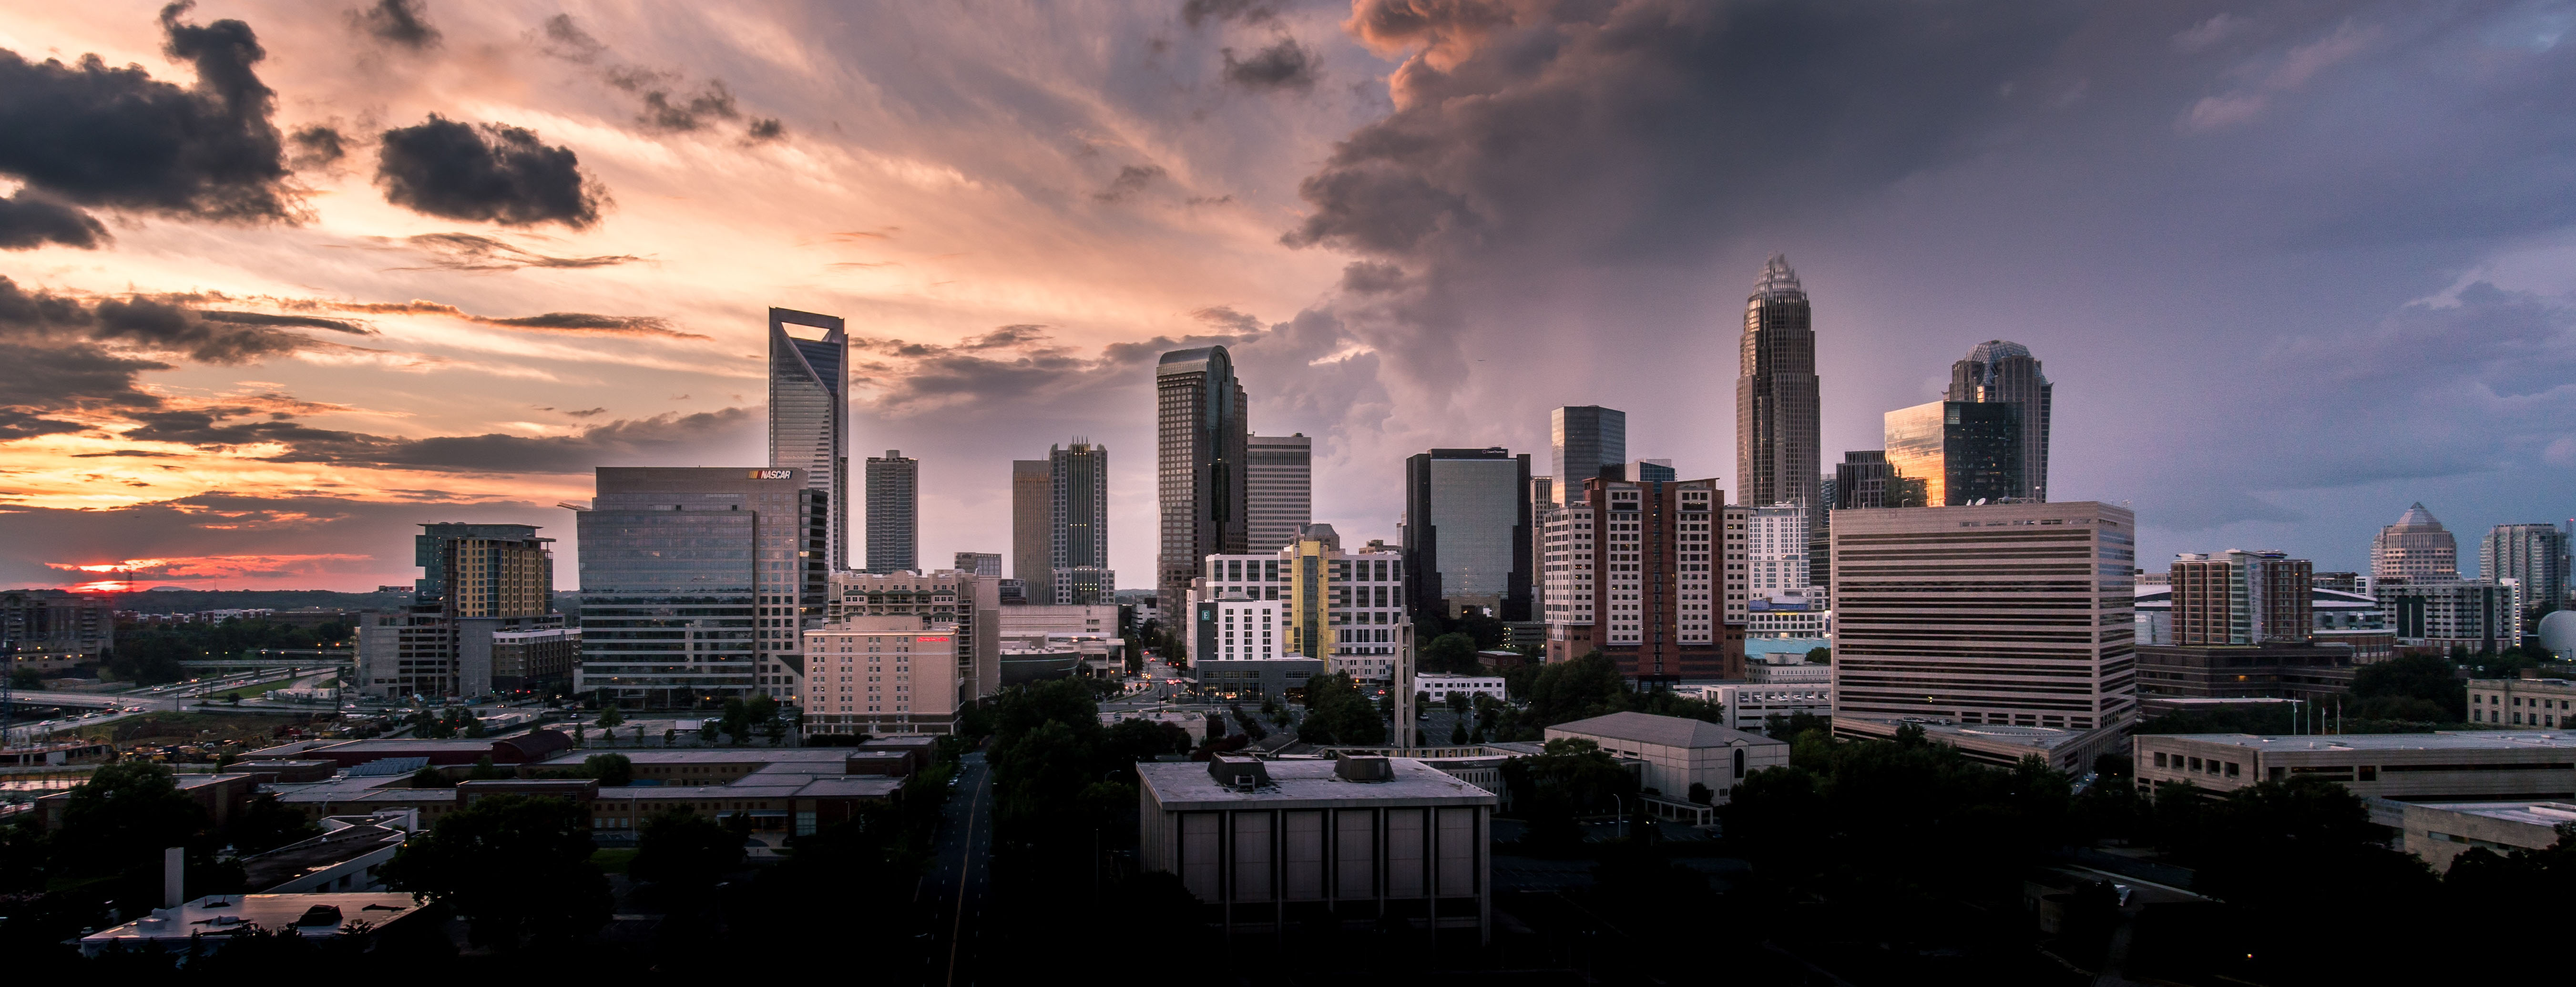
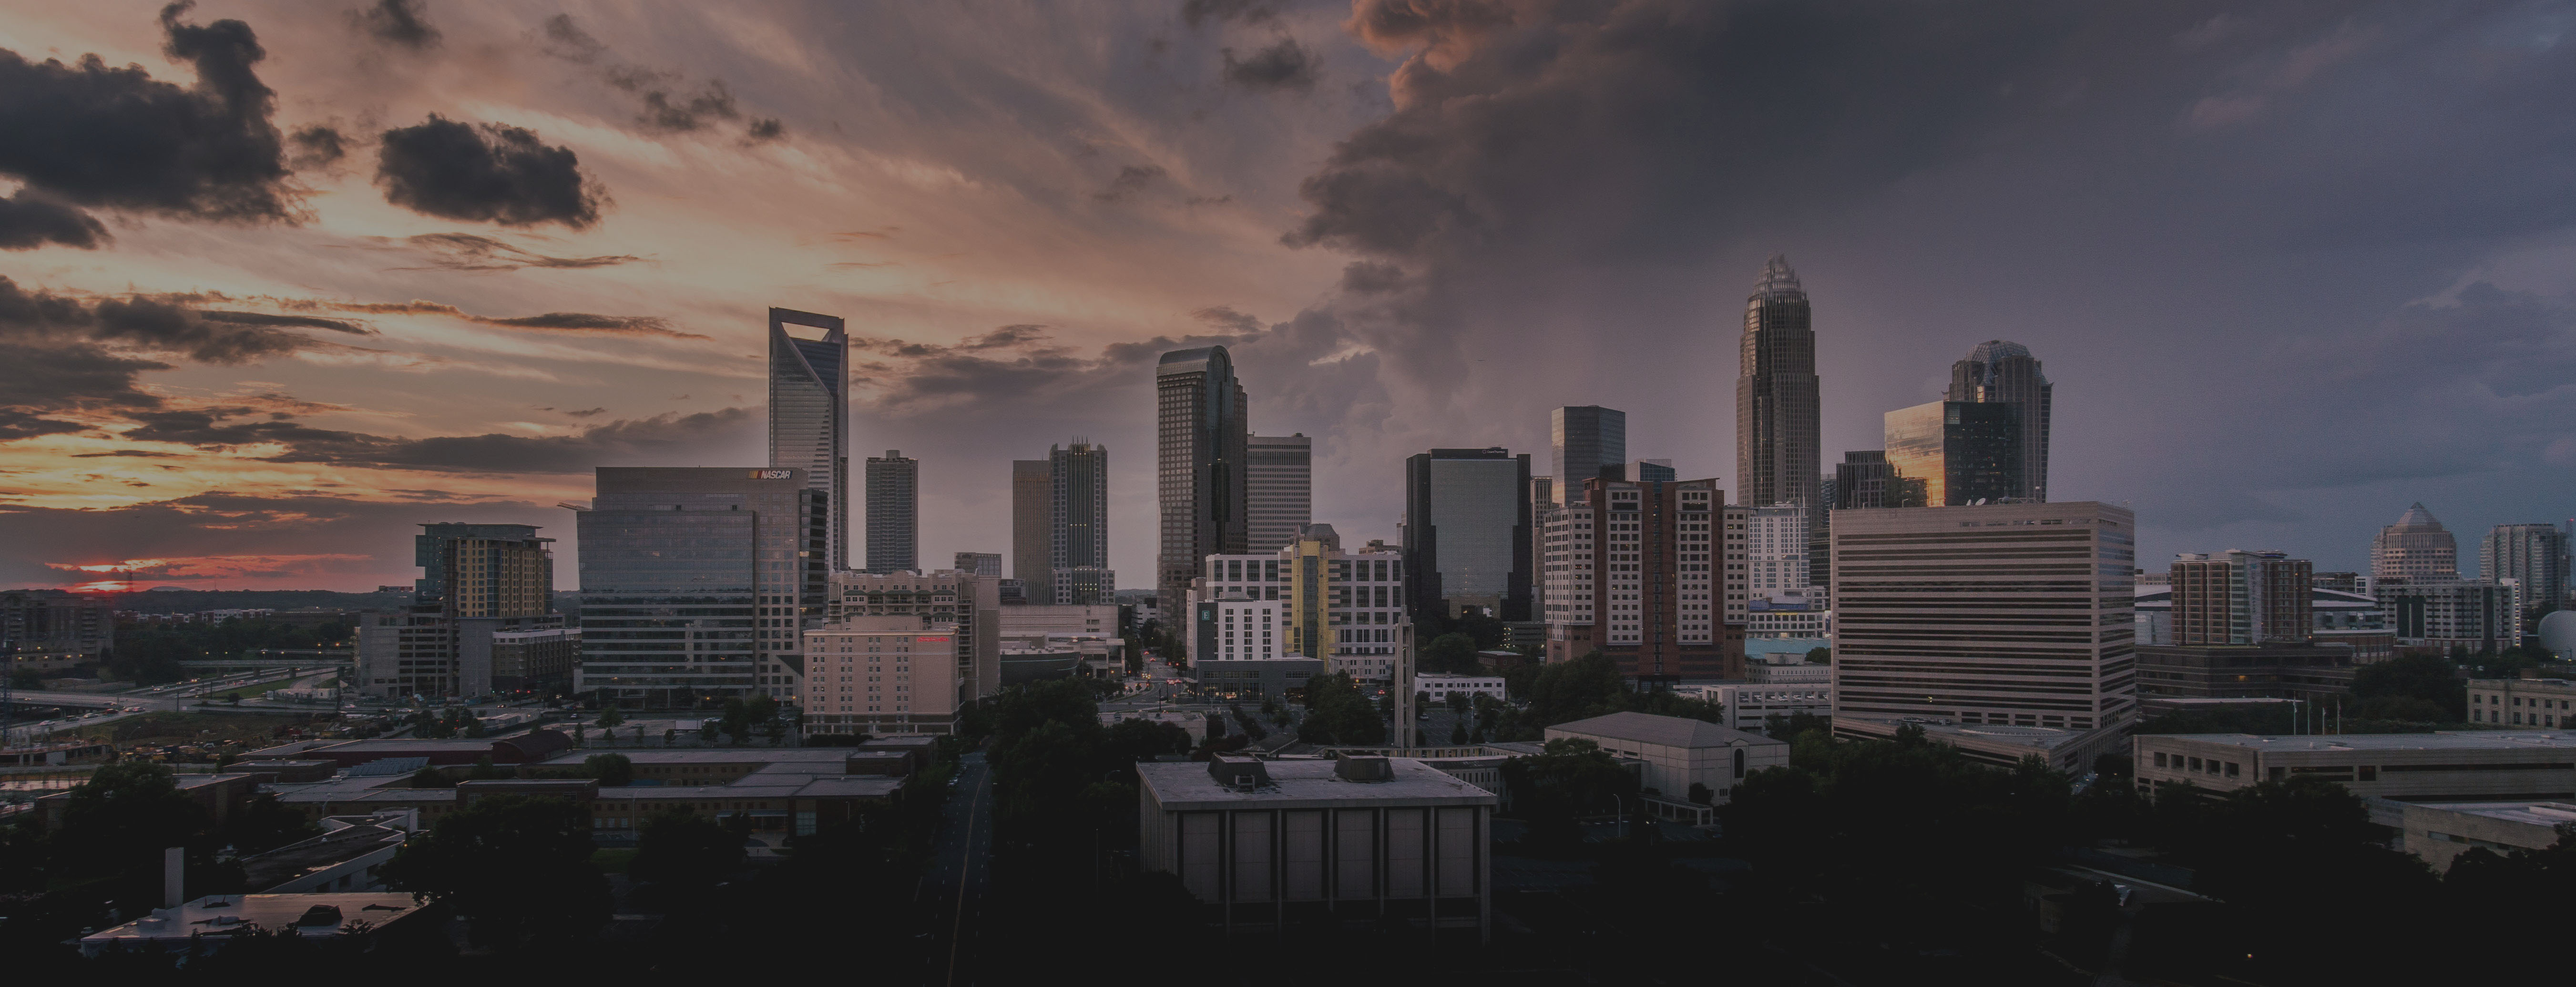
added pics and finished wording

diff --git a/index.html b/index.html
@@ -20,88 +20,118 @@
 </head>
 
 <body>
-    <nav>
-        <div id="above-nav">
-            Call Us: 704-560-9587
+    <div id="above-nav">
+        Call Us: 704-560-9587
+    </div>
+    <nav class="navbar navbar-expand-lg navbar-light bg-light">
+        <a class="navbar-brand title" href="/">D&R Cableworks</a>
+        <button class="navbar-toggler" type="button" data-toggle="collapse" data-target="#navbarNav" aria-controls="navbarNav" aria-expanded="false"
+            aria-label="Toggle navigation">
+            <span class="navbar-toggler-icon"></span>
+        </button>
+        <div class="collapse navbar-collapse" id="navbarNav">
+            <ul class="nav navbar-nav ml-auto">
+                <li class="nav-item active">
+                    <a class="nav-link" href="#">Home
+                        <span class="sr-only">(current)</span>
+                    </a>
+                </li>
+                <li class="nav-item">
+                    <a class="nav-link" href="#">Services</a>
+                </li>
+                <li class="nav-item">
+                    <a class="nav-link" href="#">About Us</a>
+                </li>
+                <li class="nav-item">
+                    <a class="nav-link" href="#">Contact Us</a>
+                </li>
+            </ul>
+    </nav>
+    <header>
+        <div class="jumbotron jumbotron-fluid">
+            <div class="container lead">
+                <h1 class="display-3">The Power of Experience</h1>
+                Serving greater North and South Carolina, D&R Cableworks is a full scale low voltage licensed cabling contractor providing
+                commercial and residential clients with superior services. Independently operated, our certified technicians
+                and installers are capable of handling projects of any size and scope. We are your #1 Installer of all Copper,Fiber,
+                and Wireless needs.
+            </div>
         </div>
-        <nav class="navbar navbar-expand-lg navbar-light bg-light">
-            <a class="navbar-brand" href="/">D&R Cableworks</a>
-            <button class="navbar-toggler" type="button" data-toggle="collapse" data-target="#navbarNav" aria-controls="navbarNav" aria-expanded="false"
-                aria-label="Toggle navigation">
-                <span class="navbar-toggler-icon"></span>
-            </button>
-            <div class="collapse navbar-collapse" id="navbarNav">
-                <ul class="nav navbar-nav ml-auto">
-                    <li class="nav-item active">
-                        <a class="nav-link" href="#">Home
-                            <span class="sr-only">(current)</span>
-                        </a>
-                    </li>
-                    <li class="nav-item">
-                        <a class="nav-link" href="#">Services</a>
-                    </li>
-                    <li class="nav-item">
-                        <a class="nav-link" href="#">About Us</a>
-                    </li>
-                    <li class="nav-item">
-                        <a class="nav-link" href="#">Contact Us</a>
-                    </li>
-                </ul>
-        </nav>
-        <header>
-            <div class="jumbotron jumbotron-fluid">
-                <div class="container lead">
-                    <h1 class="display-3">The Power of Experience</h1>
-                    Serving greater North and South Carolina, D&R Cableworks is a full scale low voltage licensed cabling contractor providing
-                    commercial and residential clients with superior services. Independently operated, our certified technicians
-                    and installers are capable of handling projects of any size and scope. We are your #1 Installer of all
-                    Copper,Fiber, and Wireless needs.
+    </header>
+    <article id="article-one">
+        <div class="container">
+            <div class="row">
+                <div class="col-md-4">
+                    <h4>Powerful Standards</h4>
+                    <hr>
+                    <p>Not all low voltage contractors operate at the same level. Our company sets the standard when it comes
+                        to low voltage services, making certain our work matches your needs and ideas of professionalism.</p>
+                </div>
+                <div class="col-md-4">
+                    <h4>Design Expertise</h4>
+                    <hr>
+                    <p>There is a lot to designing a low voltage plan than one might realize. Our team works to ensure all the
+                        requirements and needs are met, regardless of the project, renovation, or job.</p>
+                </div>
+                <div class="col-md-4">
+                    <h4>Public & Private Work</h4>
+                    <hr>
+                    <p>D&R Cableworks is responsible for hundreds of projects and countless miles of electrical cable work.
+                        Clients come to us specifically for our reputation and our ability to do the work correctly.</p>
                 </div>
             </div>
-        </header>
-        <article id="article-one">
-            <div class="container">
-                <div class="row">
-                    <div class="col-md-4">
-                        <h4>Powerful Standards</h4>
-                        <p>Not all low voltage contractors operate at the same level. Our company sets the standard when it
-                            comes to low voltage services, making certain our work matches your needs and ideas of professionalism.</p>
-                    </div>
-                    <div class="col-md-4">
-                        <h4>Design Expertise</h4>
-                        <p>There is a lot to designing a low voltage plan than one might realize. Our team works to ensure all
-                            the requirements and needs are met, regardless of the project, renovation, or job.</p>
-                    </div>
-                    <div class="col-md-4">
-                        <h4>Public & Private Work</h4>
-                        <p>D&R Cableworks is responsible for hundreds of projects and countless miles of electrical cable work.
-                            Clients come to us specifically for our reputation and our ability to do the work correctly.</p>
-                    </div>
-                </div>
-                <div class="row">
-                    <div class="col-md-12 button-center">
-                        <button type="button" class="btn btn-primary btn-lg">Services</button>
-                    </div>
+            <div class="row">
+                <div class="col-md-12 button-center">
+                    <button type="button" class="btn btn-primary btn-lg">Services</button>
                 </div>
             </div>
-        </article>
-        <article>
-            <div class="container">
-                <div class="row">
-                    <div class="col-md-12">
-                        <h4>Commercial, Industrial & Residential Expertise</h4>
-                        <p>All our technicians are highly skilled and efficient while working safely at the same time, providing
-                            you with the assurance that our work is solid. Since founding the company, we have operated with
-                            strict standards and a great work ethic. Nothing is more important than being professional, especially
-                            when it comes to our industry.</p>
-                    </div>
+        </div>
+    </article>
+    <article id="article-two">
+        <div class="container">
+            <div class="row">
+                <div class="col-md-8">
+                    <h4>Commercial, Industrial & Residential Expertise</h4>
+                    <hr>
+                    <p>All our technicians are highly skilled and efficient while working safely at the same time, providing
+                        you with the assurance that our work is solid. Since founding the company, we have operated with
+                        strict standards and a great work ethic. Nothing is more important than being professional, especially
+                        when it comes to our industry.</p>
+                </div>
+                <div class="col-md-4">
+                    <h4>Micah 6:8 (NIV)</h4>
+                    <hr>
+                    <p>He has shown you, O mortal, what is good. And what does the Lord require of you? To act justly and to
+                        love mercy and to walk humbly with your God.</p>
                 </div>
             </div>
-        </article>
-        <footer></footer>
-
-
-
+        </div>
+    </article>
+    <article id="article-three">
+        <div class="container">
+            <div class="row">
+                <div class="col-md-3">
+                    <img src="/assets/imgs/dreamstime_s_341561.jpg" class="bottom-images">
+                    <h6>Structured Cabling Installations</h6>
+                </div>
+                <div class="col-md-3">
+                    <img src="/assets/imgs/asset-1496177200727.png" class="bottom-images">
+                    <h6>Fiber and Copper Terminations</h6>
+                </div>
+                <div class="col-md-3">
+                    <img src="/assets/imgs/dreamstime_s_35240597.jpg" class="bottom-images">
+                    <h6>Security Camera, Access Control, and Intrusion Installations</h6>
+                </div>
+                <div class="col-md-3">
+                    <img src="/assets/imgs/dreamstime_s_15491706.jpg" class="bottom-images">
+                    <h6>Fire Alarm Installations</h6>
+                </div>
+            </div>
+        </div>
+    </article>
+    <footer>
+        <p>Copyright 2018 | D&R Cable</p>
+    </footer>
 </body>
 
 </html>

diff --git a/assets/css/style.css b/assets/css/style.css
@@ -3,15 +3,24 @@
     background-size: cover;
     height: 400px;
     margin-bottom: 0px;
+    position: relative;
+    background-size: cover;
+}
+
+.title {
+    text-transform: uppercase;
+    font-weight: bold;
+    font-size: 24px;
 }
 
 #above-nav {
     font-size: 12px;
     padding-left: 50px;
+    color: white;
+    background-color: black;
 }
 
 .container {
-    margin-top: 50px;
     margin-bottom: 60px;
 }
 
@@ -22,19 +31,62 @@
 
 .lead {
     color: white;
-    background: rgba(0, 0, 0, 0.575);
+    width: 100%;
+    font-size: 16px;
+    position: absolute;
+    top: 0;
+    padding-left: 100px;
+    padding-right: 100px;
+    padding-top: 20px;
+    ;
+    /* background: rgba(0, 0, 0, 0.575); */
 }
 
+/* 
 .container .lead {
     height: 100%;
-}
+} */
 
 .button-center {
     text-align: center;
     margin-top: 30px;
-    margin-bottom: 20px;
+    margin-bottom: 30px;
 }
 
 #article-one {
-    background-color: #f4f4f4;
+    background-color: #d6d6d6;
+    padding-top: 50px;
+}
+
+#article-three {
+    background-color: #d6d6d6;
+    padding-top: 50px;
+    padding-bottom: 1px;
+}
+
+hr {
+    width: 50%;
+    margin-left: 0;
+}
+
+.bottom-images {
+    width: 200px;
+    display: block;
+    margin-left: auto;
+    margin-right: auto;
+}
+
+h6 {
+    text-align: center;
+    font-weight: bold;
+    margin-top: 10px;
+}
+
+footer {
+    font-size: 14px;
+    text-align: center;
+    color: white;
+    background-color: black;
+    height: 50px;
+    padding-top: 10px;
 }
